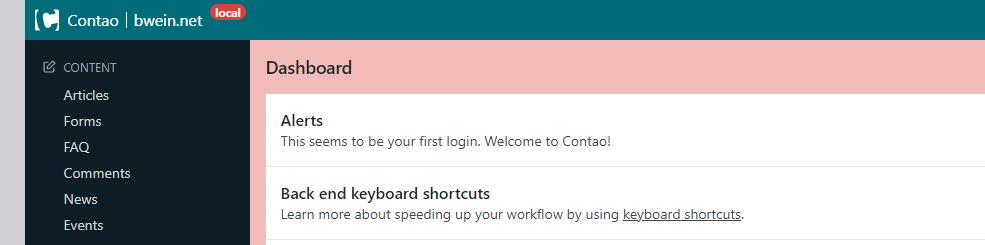
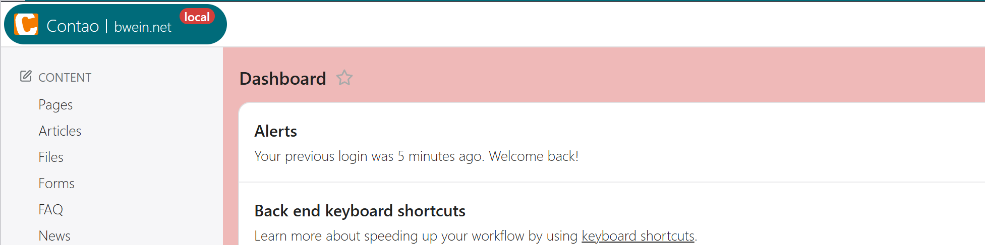
Optimize compatibility for contao 5.7

diff --git a/public/css/backend.min.css b/public/css/backend.min.css
@@ -1,1 +1,1 @@
-:root{--bwein-header-color:#f47c00;--bwein-header-color-hover:rgba(255, 255, 255, 0.1);--bwein-header-invert:0;--bwein-env-color:#0F1C26;--bwein-login-main-color:var(--bwein-main-color, #ffffff);--bwein-top-main-color:var(--bwein-main-color, #f6f6f8);--bwein-title-color:#fff;--contao:var(--bwein-header-color);--header-bg:var(--bwein-header-color);--nav-active-color:var(--bwein-header-color);--nav-mobile-active-color:var(--bwein-header-color);--nav-mobile-active-border-color:var(--bwein-header-color);--nav-mobile-btn-clr:var(--bwein-header-color);--progress-running:var(--bwein-header-color);--skip-focus-border-color:var(--bwein-header-color)}html[data-color-scheme=dark]{--bwein-title-color:#ddd;--contao:var(--bwein-header-color);--body-bg:#1b1d21}#header h1 a{height:16px}#header h1 a .app-title{float:left}#header h1 a .custom-title{float:left;border-left:1px solid var(--bwein-title-color);margin-left:7px;padding-left:7px;color:var(--bwein-title-color)}@media (max-width:767px){#header h1 a{width:initial;text-indent:unset;overflow:unset;min-width:22px;padding:12px}#header h1 a .app-title,#header h1 a .custom-title{display:none}}#main .tl_login_form .custom-header{display:block;padding:13px;text-align:center;font-size:1rem;color:var(--bwein-title-color);background:#f47c00}#header .inner,#main .tl_login_form .custom-header{background:var(--bwein-header-color)}#tmenu sup{color:var(--bwein-header-color)}#tl_navigation [class^=menu_level_]>li.current>a,#tl_navigation .menu_level_1 li.current{border-left-color:var(--bwein-header-color)}#tl_crawl .progress-bar.running,.be_main .load_bar{background-color:var(--bwein-header-color)}#tmenu a:hover,#tmenu a.hover,#tmenu li:hover .profile button,#tmenu .active .profile button,#tmenu .burger button:hover,#tmenu li:hover .h2,#tmenu .active .h2{background-color:var(--bwein-header-color-hover)}a:hover,a:active,.submit_container a:hover{color:var(--bwein-header-color)}#header h1{z-index:5}#header h1 a{background-image:url(../icons/logo.svg)}#header h1,#header h1 .env-title,#main .tl_login_form .custom-title,#tmenu>li>a,#tmenu>li>span,#tmenu sup{filter:invert(var(--bwein-header-invert))}.env-title{float:right;margin-left:8px;margin-top:-8px;border-radius:8px;padding:2px 5px;background:#0f1c26;color:var(--bwein-title-color);font-size:.75rem;font-weight:600}@media (-webkit-min-device-pixel-ratio:2),(min-resolution:192dpi){.env-title{font-weight:500}}@media (max-width:767px){#header h1 a .env-title{margin-left:32px;margin-right:-25px}}.env-title{background:var(--bwein-env-color)}#main{background:var(--bwein-login-main-color)}#main .login-providers,#main .tl_login_form{background:0 0}#top #main{background:var(--bwein-top-main-color)}html[data-color-scheme=dark] #main{background:linear-gradient(rgba(0,0,0,.92),rgba(0,0,0,.92)),var(--bwein-login-main-color);background-blend-mode:normal}html[data-color-scheme=dark] #left,html[data-color-scheme=dark] #top #main{background:linear-gradient(rgba(0,0,0,.88),rgba(0,0,0,.88)),var(--bwein-top-main-color);background-blend-mode:normal}#header:has(.backend-search) h1 a .custom-title{display:inline-block;max-width:80px;overflow:hidden;text-overflow:ellipsis;white-space:nowrap;vertical-align:middle}
+:root{--bwein-header-color:#f47c00;--bwein-header-color-hover:rgba(255, 255, 255, 0.1);--bwein-header-invert:0;--bwein-env-color:#0F1C26;--bwein-login-main-color:var(--bwein-main-color, #ffffff);--bwein-top-main-color:var(--bwein-main-color, #f6f6f8);--bwein-title-color:#fff;--contao:var(--bwein-header-color);--nav-active-color:var(--bwein-header-color);--nav-mobile-active-color:var(--bwein-header-color);--nav-mobile-active-border-color:var(--bwein-header-color);--nav-mobile-btn-clr:var(--bwein-header-color);--progress-running:var(--bwein-header-color);--skip-focus-border-color:var(--bwein-header-color)}html[data-color-scheme=dark]{--bwein-title-color:#ddd;--contao:var(--bwein-header-color);--body-bg:#1b1d21}#header .inner #home{display:flex;align-items:baseline;border-radius:20px;margin-left:3px}#header .inner #home .app-title{color:var(--bwein-title-color)}#header .inner #home .custom-title{border-left:1px solid var(--bwein-title-color);margin-left:7px;padding-left:7px;color:var(--bwein-title-color)}@media (max-width:767px){#header .inner #home{width:initial;text-indent:unset;overflow:unset;min-width:22px;padding:12px}#header .inner #home .app-title,#header .inner #home .custom-title{display:none!important}}#main .tl_login_form{padding-top:15px}#main .tl_login_form .custom-header{display:flex;justify-content:center;padding:13px;text-align:center;font-size:1rem;color:var(--bwein-title-color);background:#f47c00;border-radius:20px;margin:0 15px}#header .inner #home,#main .tl_login_form .custom-header{background-color:var(--bwein-header-color)}#tl_crawl .progress-bar.running,.be_main .load_bar{background-color:var(--bwein-header-color)}.env-title{align-self:start;margin-left:8px;margin-top:-8px;border-radius:8px;padding:2px 5px;background:#0f1c26;color:var(--bwein-title-color);font-size:.75rem;font-weight:600}@media (-webkit-min-device-pixel-ratio:2),(min-resolution:192dpi){.env-title{font-weight:500}}@media (max-width:767px){#header .inner a .env-title{margin-left:32px;margin-right:-25px}}.env-title{background:var(--bwein-env-color)}#main{background:var(--bwein-login-main-color)}#main .login-providers,#main .tl_login_form{background:0 0}#top #main{background:var(--bwein-top-main-color)}html[data-color-scheme=dark] #main{background:linear-gradient(rgba(0,0,0,.92),rgba(0,0,0,.92)),var(--bwein-login-main-color);background-blend-mode:normal}html[data-color-scheme=dark] #left,html[data-color-scheme=dark] #top #main{background:linear-gradient(rgba(0,0,0,.88),rgba(0,0,0,.88)),var(--bwein-top-main-color);background-blend-mode:normal}#header:has(.backend-search) .inner #home .custom-title{display:inline-block;max-width:68px;overflow:hidden;text-overflow:ellipsis;white-space:nowrap;vertical-align:middle}

diff --git a/public/js/backend.min.js b/public/js/backend.min.js
@@ -1,1 +1,1 @@
-(()=>{let o="bweinHeaderTitle",i="bweinEnvTitle",s=o+"Applied",u=i+"Applied";let l=(e,t)=>{var a=document.createElement("span");return a.className=e,a.dataset.bwein="1",a.textContent=t,a},c=(e,t,a,n=null)=>{var d;return e?(d=e.querySelector(`.${t}[data-bwein="1"]`))?(d.textContent!==a&&(d.textContent=a),d):(d=l(t,a),n&&e.contains(n)?e.insertBefore(d,n):e.appendChild(d),d):null},m=(e,t)=>{e&&(e=e.querySelector(`.${t}[data-bwein="1"]`))&&e.remove()},e=()=>{var t=document.body;if(t){var a=t.dataset[o]??"",n=t.dataset[i]??"",d=document.querySelector("#header h1 a"),l=document.querySelector("#main .tl_login_form .formbody"),r=l?.parentElement??null;if(d)(e=>{if(e){var t=e.querySelector(".app-title");if(!t){for((t=document.createElement("span")).className="app-title";e.firstChild;)t.appendChild(e.firstChild);e.appendChild(t)}}})(d),(e=document.querySelector('.env-title[data-bwein="1"]'))&&!d.contains(e)&&d.appendChild(e),a?t.dataset[s]!==a&&(c(d,"custom-title",a),t.dataset[s]=a):(m(d,"custom-title"),delete t.dataset[s]),n?t.dataset[u]!==n&&(c(d,"env-title",n),t.dataset[u]=n):(m(d,"env-title"),delete t.dataset[u]),(e=document.querySelector('.custom-header[data-bwein="1"]'))&&0===e.childElementCount&&e.remove();else if(r&&l){let e=document.querySelector('.custom-header[data-bwein="1"]');e?r.contains(e)||r.insertBefore(e,l):((e=document.createElement("div")).className="custom-header",e.dataset.bwein="1",r.insertBefore(e,l)),a?t.dataset[s]!==a&&(c(e,"custom-title",a),t.dataset[s]=a):(m(e,"custom-title"),delete t.dataset[s]),void(n?(d=l.querySelector("h1"),c(l,"env-title",n,d||null)||t.dataset[u]!==n&&(c(e,"env-title",n),t.dataset[u]=n)):(m(l,"env-title"),m(e,"env-title"),delete t.dataset[u]))}else{var e=document.querySelector('.custom-title[data-bwein="1"], .env-title[data-bwein="1"], .custom-header[data-bwein="1"]');e&&e.remove()}}};var t=((t,a)=>{let n=null;return(...e)=>{clearTimeout(n),n=setTimeout(()=>t(...e),a)}})(e,100);let a=new MutationObserver(t);var n=()=>{e(),(()=>{var e=document.body||document.documentElement;if(e)try{a.observe(e,{childList:!0,subtree:!0,attributes:!0})}catch(e){}})()};"loading"===document.readyState?document.addEventListener("DOMContentLoaded",n,{once:!0}):n(),document.addEventListener("turbo:load",t),document.addEventListener("turbolinks:load",t),window.addEventListener("popstate",t)})();
+(()=>{let l="bweinHeaderTitle",i="bweinEnvTitle",s=l+"Applied",c=i+"Applied";let o=(e,t)=>{var a=document.createElement("span");return a.className=e,a.dataset.bwein="1",a.textContent=t,a},u=(e,t,a,n=null)=>{var d;return e?(d=e.querySelector(`.${t}[data-bwein="1"]`))?(d.textContent!==a&&(d.textContent=a),d):(d=o(t,a),n&&e.contains(n)?e.insertBefore(d,n):e.appendChild(d),d):null},m=(e,t)=>{e&&(e=e.querySelector(`.${t}[data-bwein="1"]`))&&e.remove()},e=()=>{var t=document.body;if(t){var e,a=t.dataset[l]??"",n=t.dataset[i]??"",d=document.querySelector("#header .inner #home"),o=document.querySelector("#main .tl_login_form .formbody"),r=o?.parentElement??null;if(d)(e=>{if(e){var t=e.querySelector(".app-title");if(!t){for((t=document.createElement("span")).className="app-title";e.firstChild;)t.appendChild(e.firstChild);e.appendChild(t)}}})(d),(e=document.querySelector('.env-title[data-bwein="1"]'))&&!d.contains(e)&&d.appendChild(e),a?t.dataset[s]!==a&&(u(d,"custom-title",a),t.dataset[s]=a):(m(d,"custom-title"),delete t.dataset[s]),n?t.dataset[c]!==n&&(u(d,"env-title",n),t.dataset[c]=n):(m(d,"env-title"),delete t.dataset[c]),(e=document.querySelector('.custom-header[data-bwein="1"]'))&&0===e.childElementCount&&e.remove();else if(r&&o){let e=document.querySelector('.custom-header[data-bwein="1"]');e?r.contains(e)||r.insertBefore(e,o):((e=document.createElement("div")).className="custom-header",e.dataset.bwein="1",r.insertBefore(e,o)),a?t.dataset[s]!==a&&(u(e,"custom-title",a),t.dataset[s]=a):(m(e,"custom-title"),delete t.dataset[s]),void(n?t.dataset[c]!==n&&(u(e,"env-title",n),t.dataset[c]=n):(m(e,"env-title"),delete t.dataset[c]))}else{d=document.querySelector('.custom-title[data-bwein="1"], .env-title[data-bwein="1"], .custom-header[data-bwein="1"]');d&&d.remove()}}};var t=((t,a)=>{let n=null;return(...e)=>{clearTimeout(n),n=setTimeout(()=>t(...e),a)}})(e,100);let a=new MutationObserver(t);var n=()=>{e(),(()=>{var e=document.body||document.documentElement;if(e)try{a.observe(e,{childList:!0,subtree:!0,attributes:!0})}catch(e){}})()};"loading"===document.readyState?document.addEventListener("DOMContentLoaded",n,{once:!0}):n(),document.addEventListener("turbo:load",t),document.addEventListener("turbolinks:load",t),window.addEventListener("popstate",t)})();

diff --git a/public/css/backend.scss b/public/css/backend.scss
@@ -7,7 +7,6 @@
   --bwein-top-main-color: var(--bwein-main-color, #f6f6f8);
   --bwein-title-color: #fff;
   --contao: var(--bwein-header-color);
-  --header-bg: var(--bwein-header-color);
   --nav-active-color: var(--bwein-header-color);
   --nav-mobile-active-color: var(--bwein-header-color);
   --nav-mobile-active-border-color: var(--bwein-header-color);
@@ -23,15 +22,18 @@ html[data-color-scheme="dark"] {
 }
 
 // Header title
-#header h1 a {
-  height: 16px;
+#header .inner #home {
+
+  display: flex;
+  align-items: baseline;
+  border-radius: 20px;
+  margin-left: 3px;
 
   .app-title {
-    float: left;
+    color: var(--bwein-title-color);
   }
 
   .custom-title {
-    float: left;
     border-left: 1px solid var(--bwein-title-color);
     margin-left: 7px;
     padding-left: 7px;
@@ -47,33 +49,31 @@ html[data-color-scheme="dark"] {
 
     .app-title,
     .custom-title {
-      display: none;
+      display: none !important;
     }
   }
 }
 
-#main .tl_login_form .custom-header {
-  display: block;
-  padding: 13px;
-  text-align: center;
-  font-size: 1rem;
-  color: var(--bwein-title-color);
-  background: #f47c00;
+#main .tl_login_form {
+  padding-top: 15px;
+
+  .custom-header {
+    display: flex;
+    justify-content: center;
+    padding: 13px;
+    text-align: center;
+    font-size: 1rem;
+    color: var(--bwein-title-color);
+    background: #f47c00;
+    border-radius: 20px;
+    margin: 0 15px;
+  }
 }
 
 // Header color
-#header .inner,
+#header .inner #home,
 #main .tl_login_form .custom-header {
-  background: var(--bwein-header-color);
-}
-
-#tmenu sup {
-  color: var(--bwein-header-color);
-}
-
-#tl_navigation [class^="menu_level_"] > li.current > a,
-#tl_navigation .menu_level_1 li.current {
-  border-left-color: var(--bwein-header-color);
+  background-color: var(--bwein-header-color);
 }
 
 #tl_crawl .progress-bar.running,
@@ -81,37 +81,9 @@ html[data-color-scheme="dark"] {
   background-color: var(--bwein-header-color);
 }
 
-#tmenu a:hover, #tmenu a.hover, #tmenu li:hover .profile button, #tmenu .active .profile button, #tmenu .burger button:hover,
-#tmenu li:hover .h2, #tmenu .active .h2 {
-  background-color: var(--bwein-header-color-hover);
-}
-
-a:hover, a:active,
-.submit_container a:hover {
-  color: var(--bwein-header-color);
-}
-
-// Header invert
-#header h1 {
-  z-index: 5;
-
-  a {
-    background-image: url('../icons/logo.svg');
-  }
-}
-
-#header h1,
-#header h1 .env-title,
-#main .tl_login_form .custom-title,
-#tmenu > li > a,
-#tmenu > li > span,
-#tmenu sup {
-  filter: #{"invert(var(--bwein-header-invert))"};
-}
-
 // Env title
 .env-title {
-  float: right;
+  align-self: start;
   margin-left: 8px;
   margin-top: -8px;
   border-radius: 8px;
@@ -121,12 +93,13 @@ a:hover, a:active,
   font-size: .75rem;
   font-weight: 600;
 
-  @media (-webkit-min-device-pixel-ratio: 2), (min-resolution: 192dpi) {
+  @media (-webkit-min-device-pixel-ratio: 2),
+  (min-resolution: 192dpi) {
     font-weight: 500;
   }
 }
 
-#header h1 a {
+#header .inner a {
   .env-title {
     @media (max-width: 767px) {
       margin-left: 32px;
@@ -145,8 +118,9 @@ a:hover, a:active,
   background: var(--bwein-login-main-color);
 }
 
-#main .login-providers, #main .tl_login_form {
-    background: none;
+#main .login-providers,
+#main .tl_login_form {
+  background: none;
 }
 
 #top #main {
@@ -154,16 +128,17 @@ a:hover, a:active,
 }
 
 html[data-color-scheme="dark"] {
+
   /* Use an overlay gradient (semi-transparent black) over the main color
      for consistent darkening and wide browser support. */
   #main {
-    background: linear-gradient(rgba(0,0,0,0.92), rgba(0,0,0,0.92)), var(--bwein-login-main-color);
+    background: linear-gradient(rgba(0, 0, 0, 0.92), rgba(0, 0, 0, 0.92)), var(--bwein-login-main-color);
     background-blend-mode: normal;
   }
 
   #left,
   #top #main {
-    background: linear-gradient(rgba(0,0,0,0.88), rgba(0,0,0,0.88)), var(--bwein-top-main-color);
+    background: linear-gradient(rgba(0, 0, 0, 0.88), rgba(0, 0, 0, 0.88)), var(--bwein-top-main-color);
     background-blend-mode: normal;
   }
 }
@@ -171,9 +146,9 @@ html[data-color-scheme="dark"] {
 /* When the backend search is present in the header, limit the custom title
    and show an ellipsis on overflow. Uses :has() so the rule only applies
    only if .backend-search exists inside #header. */
-#header:has(.backend-search) h1 a .custom-title {
+#header:has(.backend-search) .inner #home .custom-title {
   display: inline-block;
-  max-width: 80px;
+  max-width: 68px;
   overflow: hidden;
   text-overflow: ellipsis;
   white-space: nowrap;

diff --git a/public/js/backend.js b/public/js/backend.js
@@ -7,7 +7,7 @@
   const ENV_DATA_KEY = 'bweinEnvTitle';
   const HEADER_APPLIED_KEY = HEADER_DATA_KEY + 'Applied';
   const ENV_APPLIED_KEY = ENV_DATA_KEY + 'Applied';
-  const HEADER_ANCHOR_SEL = '#header h1 a';
+  const HEADER_ANCHOR_SEL = '#header .inner #home';
   const LOGIN_FORM_INNER_SEL = '#main .tl_login_form .formbody';
 
   const debounce = (fn, wait = 120) => {
@@ -126,15 +126,11 @@
       }
 
       if (envTitle) {
-        const headline = loginFormInner.querySelector('h1');
-        if (!upsert(loginFormInner, 'env-title', envTitle, headline || null)) {
-          if (body.dataset[ENV_APPLIED_KEY] !== envTitle) {
-            upsert(customHeader, 'env-title', envTitle);
-            body.dataset[ENV_APPLIED_KEY] = envTitle;
-          }
+        if (body.dataset[ENV_APPLIED_KEY] !== envTitle) {
+          upsert(customHeader, 'env-title', envTitle);
+          body.dataset[ENV_APPLIED_KEY] = envTitle;
         }
       } else {
-        removeIfExists(loginFormInner, 'env-title');
         removeIfExists(customHeader, 'env-title');
         delete body.dataset[ENV_APPLIED_KEY];
       }
